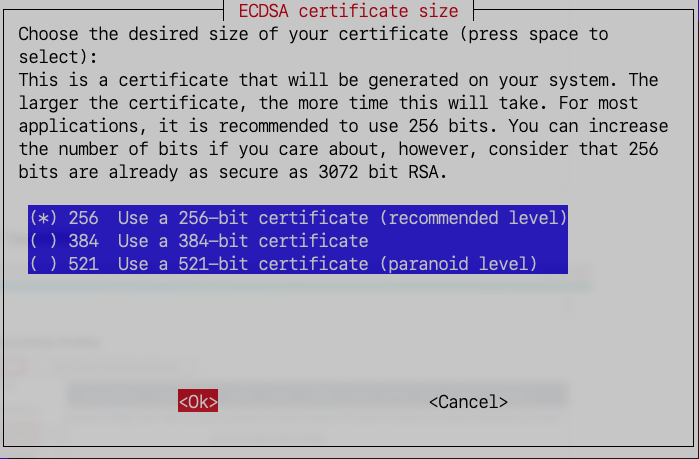
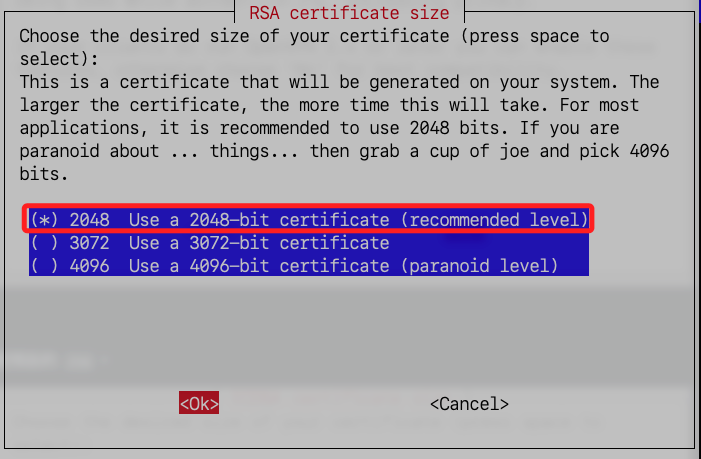
Commit on 2025-01-22 01:08:10

diff --git a/D29_VPN/03-1_OpenVPN.md b/D29_VPN/03-1_OpenVPN.md
@@ -140,21 +140,21 @@ _關於選項可參考說明_
 
 <br>
 
-5. 選預設的 `256`。
+5. 在上一個步驟選擇 `No` 時，這裡選取預設的 `2048`；若設定為 `Yes`，預設會是 `256`。
 
    ![](images/img_17.png)
 
 <br>
 
-6. 通知系統即將生成伺服器的金鑰和 HMAC 驗證金鑰，用於加密和驗證 VPN 連線的安全性。
+6. 是否要在設備上生成 `Diffie-Hellman (DH)` 參數，用於加密交換密鑰的協議，建議選擇 `Yes`，使用預定義參數以節省時間並保持高效。
 
-   ![](images/img_46.png)
+   ![](images/img_18.png)
 
 <br>
 
-7. 是否要在設備上生成 `Diffie-Hellman (DH)` 參數，用於加密交換密鑰的協議，建議選擇 `Yes`，使用預定義參數以節省時間並保持高效。
+7. 選取 `Ok`。
 
-   ![](images/img_18.png)
+   ![](images/img_46.png)
 
 <br>
 
